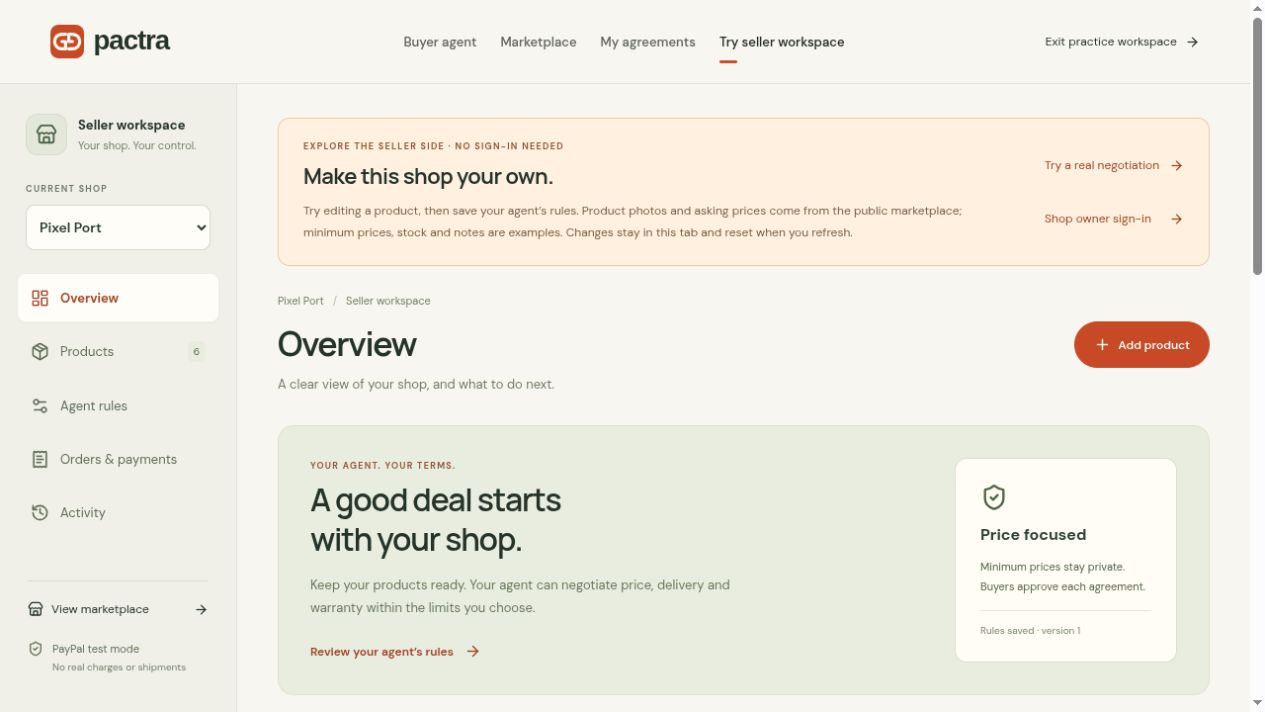
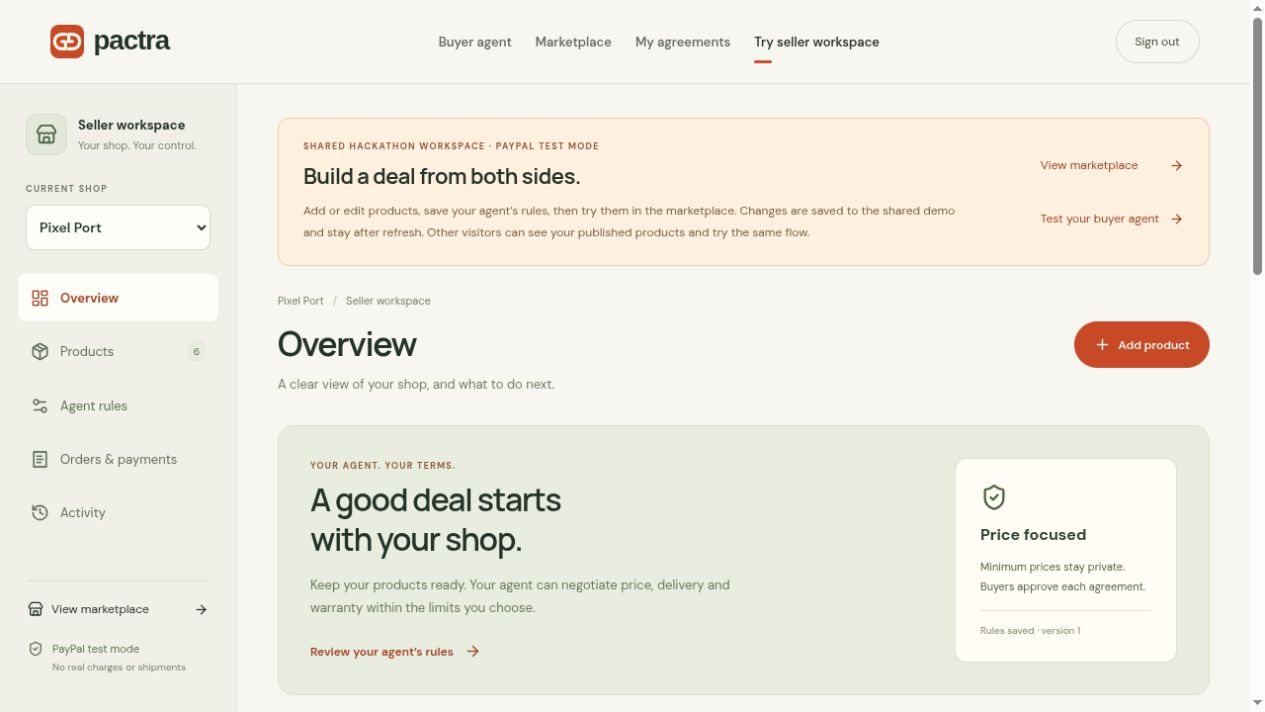
Record persistent hosted seller to marketplace negotiation verification

diff --git a/docs/28-judge-seller-access.md b/docs/28-judge-seller-access.md
@@ -41,4 +41,19 @@ Never share the actual owner code. If organizers require buyer credentials, use 
 
 ## Verification
 
-All 128 unit/integration tests passed against isolated `pactra_test`, including shared-session issuance, hashing/expiry/logout, explicit sandbox/flag gating and revocation. The database-backed Chromium walkthrough passed one-click sign-in, existing product editing, refresh persistence (including the selected shop), adding/publishing a new product, saving delivery rules, marketplace visibility, new-product negotiation admission, real seller orders, forged-origin rejection and logout. It used isolated `pactra_test`, with no real provider/payment calls. Strict TypeScript and the optimized production build passed. Hosted activation and real worker verification remain to be recorded.
+All 128 unit/integration tests passed against isolated `pactra_test`, including shared-session issuance, hashing/expiry/logout, explicit sandbox/flag gating and revocation. The database-backed Chromium walkthrough passed one-click sign-in, existing product editing, refresh persistence (including the selected shop), adding/publishing a new product, saving delivery rules, marketplace visibility, new-product negotiation admission, real seller orders, forged-origin rejection and logout. It used isolated `pactra_test`, with no real provider/payment calls. Strict TypeScript and the optimized production build passed. GitHub Actions passed for release `fadd7a0` ([run](https://github.com/simiyu-samuel/pactra/actions/runs/42209482619)).
+
+
+## Hosted activation and full-flow evidence
+
+The owner explicitly confirmed enabling public, persistent seller access to the existing shared demo data. Render saved `SELLER_DEMO_ACCESS=true` and deployed release `fadd7a0` as `dep-dbmrgvk9v7es73aij9b0`; it became Live on November 6, 2026 at 14:24:50 EAT. Pre-deploy found no pending migrations and retained the existing three shops, six original products and eighteen original listings. The worker/database plans, credentials and billing were unchanged.
+
+A fresh demo seller session created a temporary Swift Gear product from the already-approved Logitech mouse details/photos. The draft persisted through subsequent database reads and was absent from the public catalog. Editing/publishing it made it visible in the actual marketplace. The hosted seller form then changed the asking price to USD 27; refresh retained Swift Gear, the saved price, stock of three units and published status. Public marketplace search returned that same product at USD 27.
+
+Selecting **Negotiate this item** created room `05740669-fe68-43a6-b20f-2355a6221920` for the new database product `d982b3aa-0041-40b7-96d2-01d92bd583b5`, with a USD 50/seven-day buyer limit. The existing hosted Groq worker completed the buyer/seller exchange: Swift Gear opened at USD 36 total, the buyer asked for USD 34, and the seller returned USD 35 (USD 20 item + USD 15 standard delivery), two-day arrival and twelve-month warranty. This proves the persistent seller → public marketplace → buyer request → live seller negotiation path. No offer was accepted, checkout reserved, payment captured or refund initiated in this verification.
+
+The temporary listing `17b5accb-6a63-49ec-a081-8bee1a3cf0fb` was archived afterward, leaving all twelve original published listings and the six original Swift Gear drafts unchanged. The new product/listing and immutable edit history remain as archived verification records; the completed room is historical evidence, and archiving makes its old offers ineligible for a new checkout. Only the separate verification API session was signed out. An ignored, private catalog snapshot was saved before the test; no credential was exposed.
+
+Hosted storefront, seller demo, older redirect, owner sign-in, negotiation, orders and health routes returned 200. Public buyer responses still excluded private floors, agent instructions and token hashes. Anonymous owner catalog access returned 401; a forged-origin demo login returned 403. The in-app browser opened all three existing shops without a code, showed real order/payment records, and passed a 390px product/navigation check without horizontal overflow. The normal viewport was restored and the shared workspace remains open for review.
+
+Screenshots: [shared workspace](../assets/previews/pactra-judge-workspace.jpg), [persisted product edit](../assets/previews/pactra-shared-seller-persistence.jpg), [completed live agent negotiation](../assets/previews/pactra-shared-seller-negotiation.jpg). These show the hosted application, with the temporary listing clearly labeled as a verification item.

diff --git a/docs/15-implementation-status.md b/docs/15-implementation-status.md
@@ -4,7 +4,7 @@ Updated November 6, 2026. The other documents describe the intended hackathon re
 
 ## Shared judge seller entry — November 6
 
-At the owner's explicit request, the earlier temporary practice copy is replaced with full access to the existing shared hackathon seller database. `/seller-demo` obtains a real seller session without exposing the owner code; `/seller-preview` redirects to it. Product, stock and agent-rule edits persist and feed the actual marketplace and new negotiations. Orders and sandbox payment/refund tools use the existing seller APIs. The selected shop survives refresh through its URL. Open entry requires explicit server enablement and PayPal sandbox; disabling it rejects demo sessions. All 128 isolated unit/integration tests pass. See [judge access](28-judge-seller-access.md) for testing instructions and verification.
+At the owner's explicit request, the earlier temporary practice copy is replaced with full access to the existing shared hackathon seller database. `/seller-demo` obtains a real seller session without exposing the owner code; `/seller-preview` redirects to it. Product, stock and agent-rule edits persist and feed the actual marketplace and new negotiations. Orders and sandbox payment/refund tools use the existing seller APIs. The selected shop survives refresh through its URL. Open entry requires explicit server enablement and PayPal sandbox; disabling it rejects demo sessions. Release `fadd7a0` is live with the owner-approved `SELLER_DEMO_ACCESS=true` setting. All 128 isolated unit/integration tests, the persistent browser walkthrough, strict TypeScript, production build and CI passed. A hosted form edit survived refresh, appeared in the marketplace and produced a completed real Groq negotiation at USD 35 including delivery. The temporary verification listing was archived afterward; the twelve original published listings remain available. See [judge access](28-judge-seller-access.md) for testing instructions and verification.
 
 ## Credit-funded, always-on Render deployment — November 6
 
